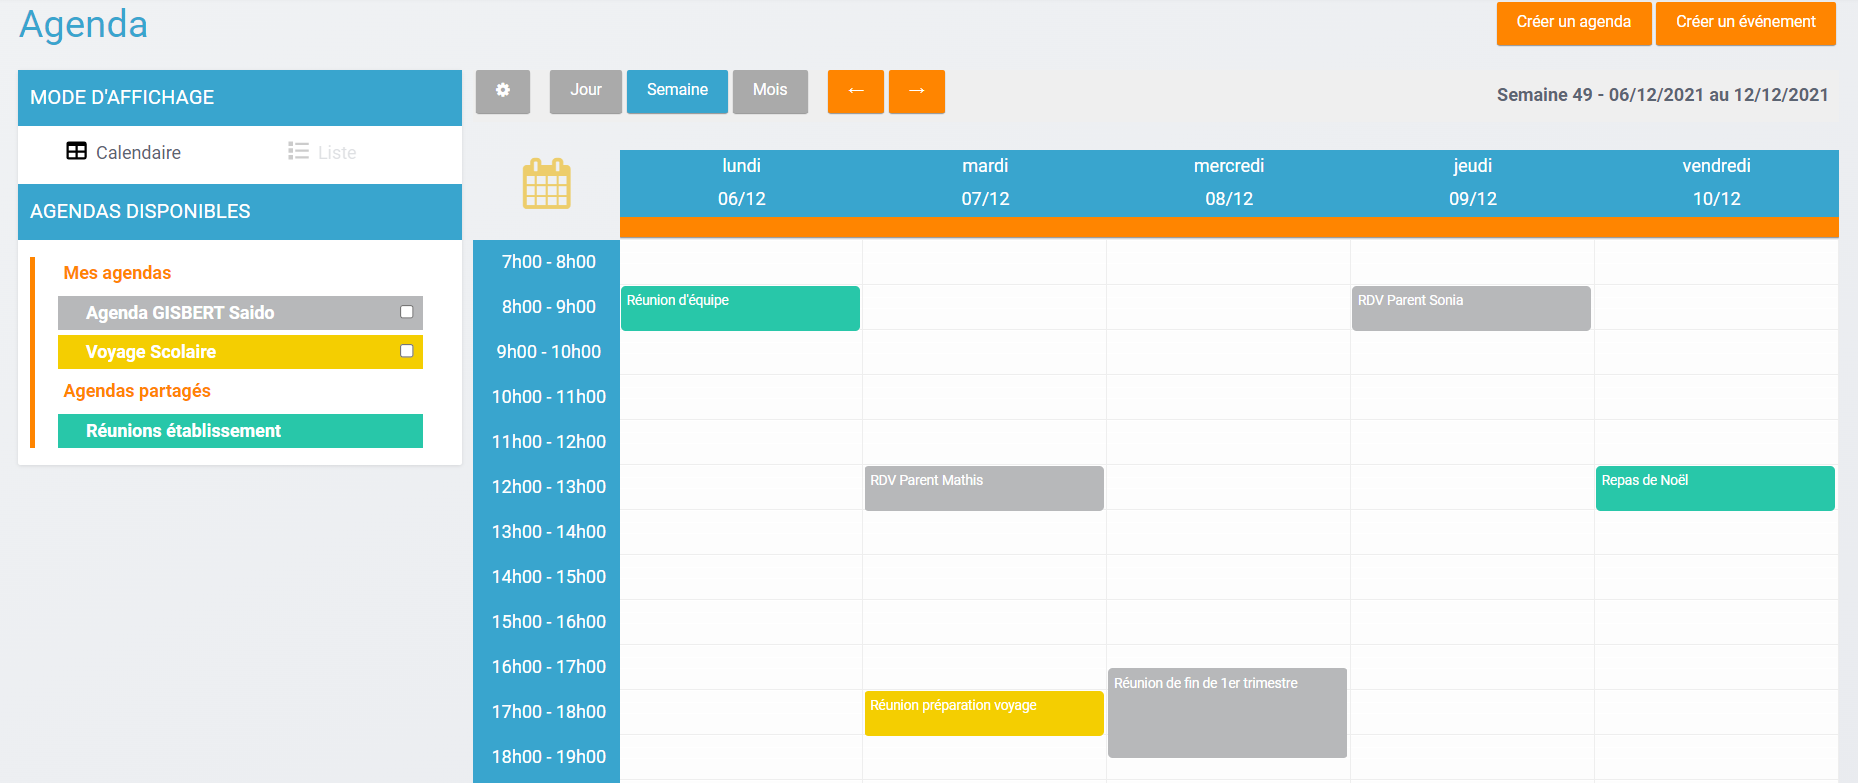
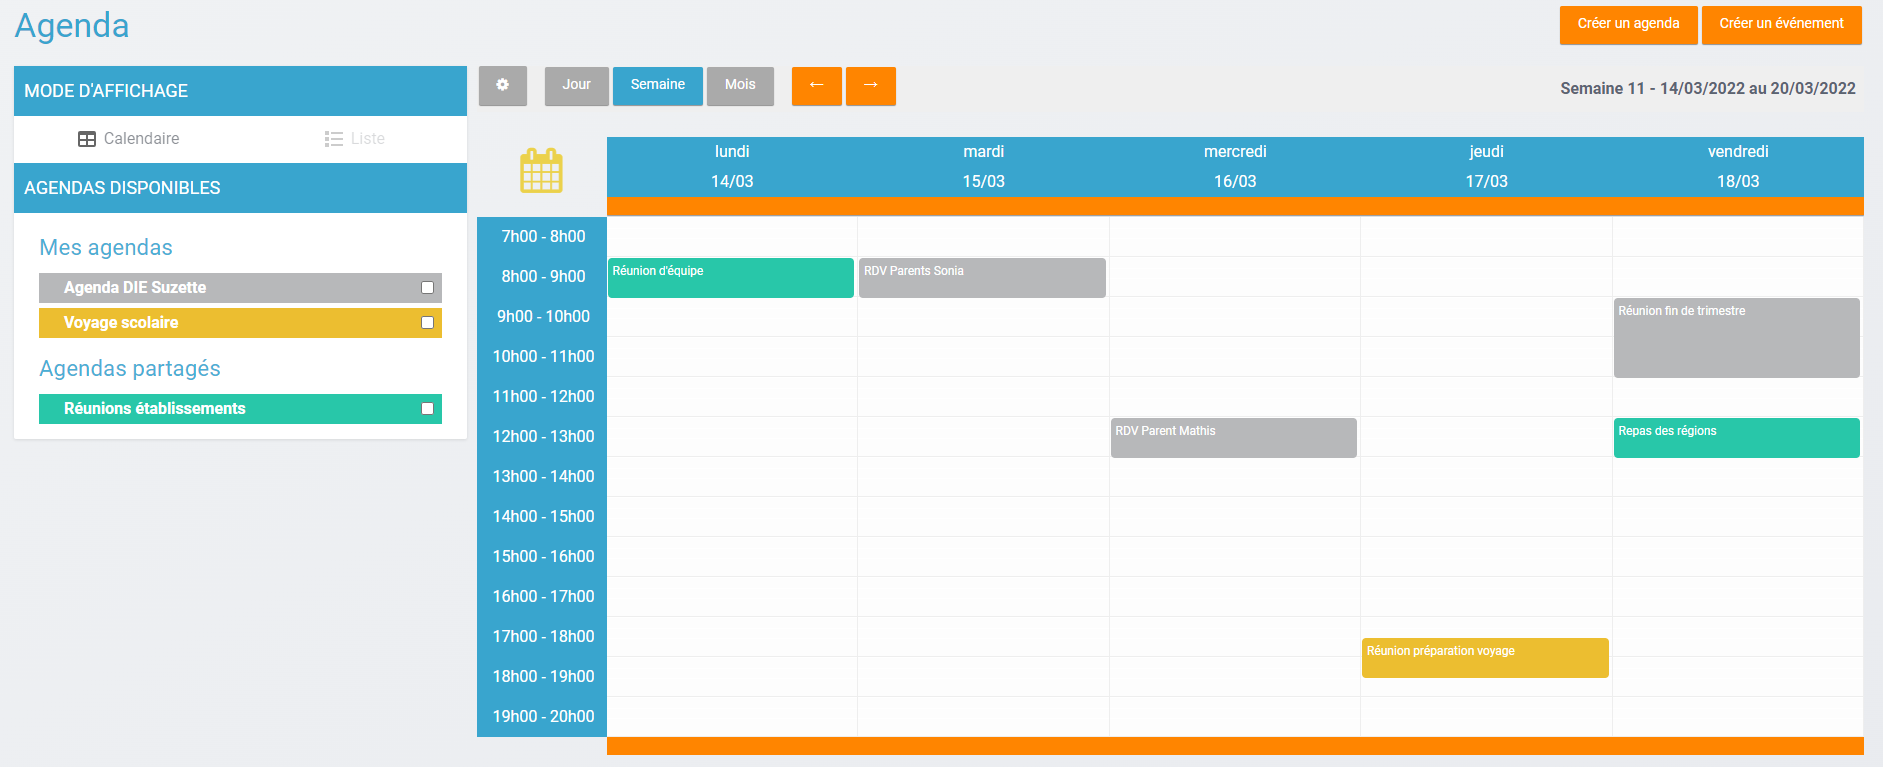
feat(Calendar) : #WB-658 update wording and screenshot

diff --git a/application/calendar.md b/application/calendar.md
@@ -1,71 +1,80 @@
 # Agenda
 
-Une organisation haute en couleur ! Retrouvez, en un clin d’oeil, tous les événements que vous avez notés et tous ceux que l’on vous a attribués sur l’appli **Agenda**.
+Une organisation haute en couleur ! Retrouvez, en un clin d’œil, tous les événements que vous avez notés et tous ceux que l’on vous a attribués sur l’appli **Agenda**.
 
 ## Présentation
 
 Le service Agenda permet de créer et partager des agendas et des événements.
 
-![](<.gitbook/assets/01\_calendar.png>)
+![](<.gitbook/assets/01_calendar.png>)
 
 Par défaut, vous disposez d'un agenda **Agenda NOM Prénom** dans lequel vous pourrez retrouver tous les événements qui ont été partagés avec vous, hors agenda partagé. Vous pouvez utiliser cet agenda pour créer vos événements et les partager à votre tour à d'autres utilisateurs.
 
-Dépuis ce module vous pouvez :
-
-* Créer des agendas et les partager
-* Créer des événements et les partager
-* Créer des agendas partagés et restreindre à l'intérieur l'affichage d'événements à un petit groupe d'utilisateurs
+Depuis ce module vous pouvez :
+- Créer des agendas et les partager
+- Créer des événements et les partager
+- Créer des agendas partagés et restreindre à l'intérieur l'affichage d'événements à un petit groupe d'utilisateurs
 
 ## Créer un agenda
 
-Pour créer un agenda, cliquez sur le **bouton « Créer un agenda » en haut à droite**. Il faut ensuite saisir un titre pour l’agenda et éventuellement choisir une couleur avant de valider l’enregistrement.
+Pour créer un agenda, cliquez sur le **bouton « Créer un agenda » en haut à droite**.
+Il faut ensuite saisir un titre pour l’agenda et éventuellement choisir une couleur avant de valider l’enregistrement.
 
-![](<.gitbook/assets/02\_creer\_agenda (1).png>)
+![](<.gitbook/assets/02_creer_agenda.png>)
 
-Une fois créé, l’agenda apparaît dans la liste des agendas de l’utilisateur.
+Une fois créé, l’agenda apparaît sur la gauche dans la liste des agendas de l’utilisateur.
 
-![](<.gitbook/assets/02\_agenda\_cree (1).png>)
+![](<.gitbook/assets/02_agenda_cree.png>)
 
-Depuis cette liste il est possible d’accéder aux opérations sur l’agenda en le sélectionnant à l’aide de la case à cocher. Un menu apparaît alors en bas de l’écran proposant les actions supplémentaires suivantes.
+Depuis cette liste il est possible d’accéder aux opérations sur l’agenda en le sélectionnant à l’aide de la case à cocher. Un menu apparaît alors en bas de l’écran proposant plusieurs actions.
 
-![](<.gitbook/assets/02\_actions\_agenda (1).png>)
+![](<.gitbook/assets/02_actions_agenda.png>)
 
 Description des actions :
 
-* **Exporter**: télécharge l’agenda sélectionné au format .ics ;
-* **Importer**: permet l’import des événements d’un calendrier au format .ics dans l’agenda sélectionné ;
-* **Modifier**: permet de modifier le titre ou la couleur associée à l’agenda sélectionné ;
-* **Supprimer**: permet la suppression de l’agenda sélectionné après confirmation ;
-* **Partager**: permet le partage de l’agenda sélectionné avec d’autres utilisateurs.
+* **Exporter** : télécharge l’agenda sélectionné au format .ics ;
+* **Importer** : permet l’import des événements d’un calendrier au format .ics dans l’agenda sélectionné ;
+* **Modifier** : permet de modifier le titre ou la couleur associée à l’agenda sélectionné ;
+* **Supprimer** : permet la suppression de l’agenda sélectionné après confirmation ;
+* **Partager** : permet le partage de l’agenda sélectionné avec d’autres utilisateurs.
 
-Attention, si la barre de couleur de l'agenda est pâle, c'est que l'agenda n'est pas sélectionné. Les événements de cet agenda ne seront donc pas visibles dans la vue calendaire. Afin d'afficher un agenda, il faut cliquer sur la barre de couleur associée.
+Attention, si l'necadré de l'agenda est de couleur pâle, c'est que l'agenda n'est pas sélectionné. Les événements de cet agenda ne seront donc pas visibles dans la vue calendaire. Afin d'afficher un agenda, il faut cliquer sur son nom dans la rubrique « Mes agendas ».
 
 ## Créer un événement
 
-Pour créer un événement, plusieurs options s’offrent à l’utilisateur, il est possible de **cliquer dans le calendrier au créneau horaire souhaité** ou d’utiliser le **bouton "Créer un événement" en haut à droite** :
+Pour créer un événement, plusieurs options s’offrent à l’utilisateur : il est possible de **cliquer dans le calendrier au créneau horaire souhaité** ou d’utiliser le **bouton "Créer un événement" en haut à droite**
 
-![](<.gitbook/assets/03\_button\_creation\_evenement.png>)
+![](<.gitbook/assets/03_button_creation_evenement.png>)
 
-La fenêtre de création d’événement apparait en popup. Elle se décompose en trois onglets.
+La fenêtre de création d’événement apparait en pop-up. Elle se décompose en quatre onglets.
 
-![](<.gitbook/assets/03\_creer\_evenement (1).png>)
+![](<.gitbook/assets/03_creer_evenement.png>)
 
-Le premier onglet appelé **"Détails"** comporte les informations générales de l’événement à créer :
+**Onglet Détails**
+
+Cette première rubrique comporte les informations générales de l’événement à créer :
 
 * le ou les agendas auxquels il appartient (à sélectionner parmi la liste des calendriers que l’utilisateur peut modifier),
 * le titre de l’événement,
 * la description,
-* le lieu.
+* le lieu,
+* une ou des pièces jointes, à charger depuis son appareil ou à importer depuis son espace documentaire.
 
-Le second onglet appelé **"Dates"** permet la sélection de la plage horaire de l’événement.
+![](<.gitbook/assets/03_importer_pj.png>)
 
-![](<.gitbook/assets/03\_date (1).png>)
+**Onglet Dates**
 
-Il est possible de changer les dates et heures de début et de fin. La case à cocher « Toute la journée » permet de définir un événement sans heure de début ou de fin.
+Ce second onglet permet la sélection de la plage horaire de l’événement.
 
-Enfin le dernier onglet appelé **"Récurrence"** permet de définir la récurrence de l’événement si nécessaire.
+![](<.gitbook/assets/03_date.png>)
 
-![](<.gitbook/assets/03\_recurrence.png>)
+Il est possible de changer les dates et heures de début et de fin. La case à cocher « Toute la journée » permet de définir un événement pour l'ensemble de la journée, sans heure de début ou de fin.
+
+**Onglet Récurrence**
+
+Le troisième onglet permet de définir, si on le souhaite, une récurrence pour l’événement.
+
+![](<.gitbook/assets/03_recurrence.png>)
 
 Pour cela, il faut cocher la case « Récurrence » pour pouvoir accéder à la sélection du paramétrage de la récurrence. Ensuite, il est possible de modifier :
 
@@ -73,17 +82,52 @@ Pour cela, il faut cocher la case « Récurrence » pour pouvoir accéder à la 
 2. la fréquence de la récurrence (Tous les X jours ou Y semaines)
 3. La fin de la série d’événements récurrents. Cette fin peut être paramétrée après un nombre d’occurrences ou à une date donnée.
 
+
 **Si le type de récurrence est « Toutes les semaines », la liste des jours de la semaine apparaît afin de choisir le ou les jours sur lesquelles se produira la récurrence.**
+
+![](<.gitbook/assets/03_recurrence_semaine.png>)
+
+Une fois la récurrence créée, on peut choisir de modifier seulement un évènement de la récurrence, ou l'ensemble des occurrences de l'évènement.
+
+**Onglet Réservation de ressources**
+
+Enfin, le dernier onglet permet d'effectuer une réservation de ressources pour le créneau de l'évènement. Ce dernier onglet n'est présent que si l'utilisateur a accès à l'application **Réservation de ressources**.
+
+En cochant la case "Réservation de ressources", on ouvre un formulaire de réservation des ressources similaire à celui disponible sur l'application **Réservation de ressources**.
+
+![](<.gitbook/assets/03_ressources.png>)
+
+On sélectionne dans un premier temps l'établissement pour lequel on souhaite réserver la ressource.
+Il est alors possible de choisir le **type de ressource** que l'on souhaite réserver, puis la ressource pour laquelle on souhaite effectuer une réservation.
+
+Les informations de la ressource s'affichent :
+- La description de la ressource, s'il y en a une
+- La quantité de ressources disponibles pour le créneau choisi
+- Les périodes de disponibilités (en vert) ou d'indisponibilités (en rouge), s'il y en a
+
+
+On peut alors choisir la quantité que l'on désire réserver. Si la quantité ne correspond pas aux disponibilités, un message est affiché.
+
+**Il n'est pas possible d'effectuer une réservation de ressource pour un évènement s'étalant sur plusieurs jours ou pour une date passée. Il n'est pas encore possible de faire une réservation pour un évènement récurrent (fonctionnalité à venir)**
+
+Une fois l'évènement enregistré, la réservation est affichée sur la consultation de l'évènement (accessible en cliquant sur l'évènement).
+
+![](<.gitbook/assets/03_apercu_reservation.png>)
+
+Elle est également consultable et modifiable dans l'application **Réservation de ressources** : elle y est visible sur le même créneau que l'évènement.
+
+**NB : l'application Agenda permet de créer une ressource associée à un évènement. Cependant, la modification d'un évènement ne modifiera pas la réservation de ressources associée. Rendez-vous sur l'application Réservation de ressources pour la modifier.**
+
 
 ## Partager un agenda
 
 Afin de partager un agenda, il faut **le sélectionner** dans le menu à gauche puis **choisir "Partager"** dans le menu en bas.
 
-![](<.gitbook/assets/02\_actions\_agenda (1).png>)
+![](<.gitbook/assets/02_actions_agenda.png>)
 
-Dans la fenêtre, vous pouvez donner aux utilisateurs différents droits d’accès à votre agenda. Pour cela, suivez les étapes suivantes :&#x20;
+Dans la fenêtre, vous pouvez donner aux utilisateurs différents droits d’accès à votre agenda. Pour cela, suivez les étapes suivantes :
 
-![](<.gitbook/assets/04\_partage\_droits (1).png>)
+![](<.gitbook/assets/04_partage_droits.png>)
 
 1. Saisissez les premières lettres du nom de l’utilisateur ou du groupe d’utilisateurs que vous recherchez.
 2. Sélectionnez le résultat.
@@ -91,29 +135,33 @@ Dans la fenêtre, vous pouvez donner aux utilisateurs différents droits d’acc
 
 Les droits de partage que vous pouvez attribuer aux autres utilisateurs sont les suivants :
 
-* **Lecteur**: l’utilisateur peut lire le contenu
-* **Contribuer**: l’utilisateur peut contribuer à votre agenda
-* **Gestionnaire**: l’utilisateur peut modifier ou supprimer ou partager l’agenda
+* **Lecteur** : l’utilisateur peut lire le contenu
+* **Contributeur** : l’utilisateur peut contribuer à votre agenda
+* **Gestionnaire** : l’utilisateur peut modifier ou supprimer ou partager l’agenda
 
 ## Partager un événement
 
 Cette fonctionnalité permet de :
+- partager un événement depuis votre agenda personnel
+- restreindre l'accès à un événement dans un agenda partagé
 
-* partager un événement depuis votre agenda personnel
-* restreindre l'accès à un événement dans un agenda partagé
+*Cas de figure 1 :*
+Vous souhaitez **partager de temps en temps des événements** à différents groupes de personnes.
+Dans ce cas, pas besoin de créer x agendas partagés. Il suffit au moment de la création d'un événement de cliquer sur **"Enregistrer et partager"**. Une fenêtre de partage s'ouvre automatiquement après enregistrement et vous pouvez choisir les groupes de personnes à qui partager l'événement ainsi que les droits à leur donner.
+![](<.gitbook/assets/05_enregistrer_partager.png>)
 
-_Cas de figure 1 :_ Vous souhaitez **partager de temps en temps des événements** à différents groupes de personnes. Dans ce cas, pas besoin de créer x agendas partagés. Il suffit au moment de la création d'un événement de cliquer sur **"Enregistrer et partager"**. Une fenêtre de partage s'ouvre automatiquement après enregistrement et vous pouvez choisir les groupes de personnes à qui partager l'événement ainsi que les droits à leur donner.&#x20;
-
-![](<.gitbook/assets/05\_enregistrer\_partager (1).png>)
 
 Cet événement sera automatiquement disponible dans leur agenda personnel. Ils pourront seulement le lire, le repartager ou le supprimer en fonction des droits octroyés.
 
-_Cas de figure 2:_ Vous souhaitez **partager un agenda à un groupe** de personnes mais **de temps en temps vous souhaitez restreindre l'accès à un événement** à un groupe de personnes. Par exemple, il y a l'agenda partagé "Etablissement-Parents" mais quand il s'agit des rencontres parents-enseignants, vous ne souhaitez pas que tous les parents accèdent à toutes les réunions. Dans ce cas, à la création de l'événement, cliquer sur **"Enregistrer et restreindre"**. La fenêtre de partage s'ouvre et vous pouvez choisir le groupe restreint à qui partager l'événement.&#x20;
+*Cas de figure 2 :*
+Vous souhaitez **partager un agenda à un groupe** de personnes mais **de temps en temps vous souhaitez restreindre l'accès à un événement** à certaines personnes. Par exemple, il y a l'agenda partagé "Etablissement-Parents" mais quand il s'agit des rencontres parents-enseignants, vous ne souhaitez pas que tous les parents accèdent à toutes les réunions. Dans ce cas, à la création de l'événement, cliquer sur **"Enregistrer et restreindre"**. La fenêtre de partage s'ouvre et vous pouvez choisir le groupe restreint à qui partager l'événement.
 
-![](<.gitbook/assets/05\_enregistrer\_restreindre (1).png>)
+![](<.gitbook/assets/05_enregistrer_restreindre.png>)
 
-* Si la personne à qui vous partagez l'événement dispose de l'agenda partagé, l'événement sera dans l'agenda partagé mais visible uniquement pour elle
-* Si la personne à qui vous partagez l'événement ne dispose pas de l'agenda partagé, l'événement sera dans son agenda personnel.
+
+
+- Si la personne à qui vous partagez l'événement dispose de l'agenda partagé, l'événement sera dans l'agenda partagé mais visible uniquement pour elle
+- Si la personne à qui vous partagez l'événement ne dispose pas de l'agenda partagé, l'événement sera dans son agenda personnel.
 
 Attention, dans le cadre d'un partage d'événement à l'intérieur d'un agenda partagé, **les droits de l'agenda l'emportent sur les droits de l'événement**.
 
@@ -121,14 +169,14 @@ Attention, dans le cadre d'un partage d'événement à l'intérieur d'un agenda 
 
 Les événements créés sont affichés sur la vue calendrier avec comme couleur de fond celle de l’agenda auquel ils appartiennent.
 
-![](<.gitbook/assets/01\_calendar.png>)
+![](<.gitbook/assets/01_calendar.png>)
 
-Il est possible de choisir les agendas affichés sur le calendrier en cliquant dessus dans la partie de gauche. Les agenda non sélectionnés ont la même couleur mais plus pâle.
+Il est possible de choisir les agendas affichés sur le calendrier en cliquant dessus dans la partie de gauche. La couleur des agendas non sélectionnés devient plus pâle.
 
-![](<.gitbook/assets/06\_deselectionner\_agenda (1).png>)
+![](<.gitbook/assets/06_deselectionner_agenda.png>)
 
 La seconde façon de visualiser les événements est la vue liste accessible par l’icône ![](<.gitbook/assets/06_icone_liste.png>) disponible en haut du menu latéral de gauche.
 
-![](<.gitbook/assets/06\_vue\_liste.png>)
+![](<.gitbook/assets/06_vue_liste.png>)
 
 Elle synthétise les informations des événements des différents agendas affichés.
